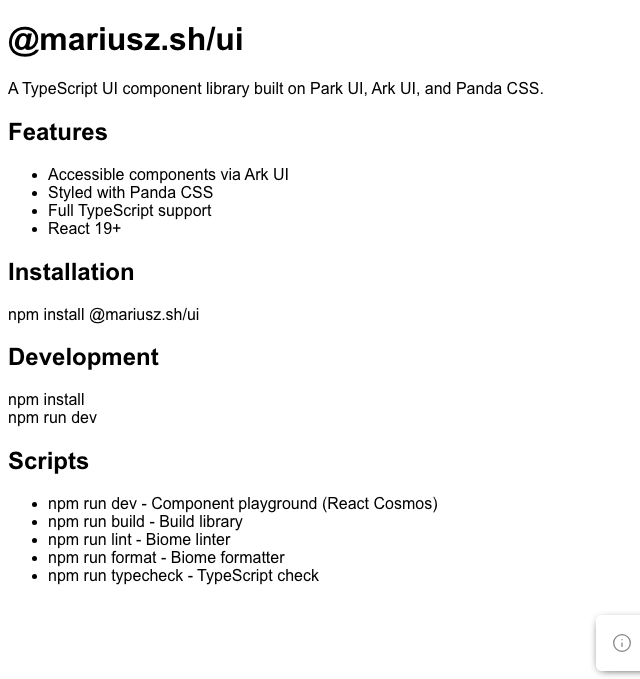
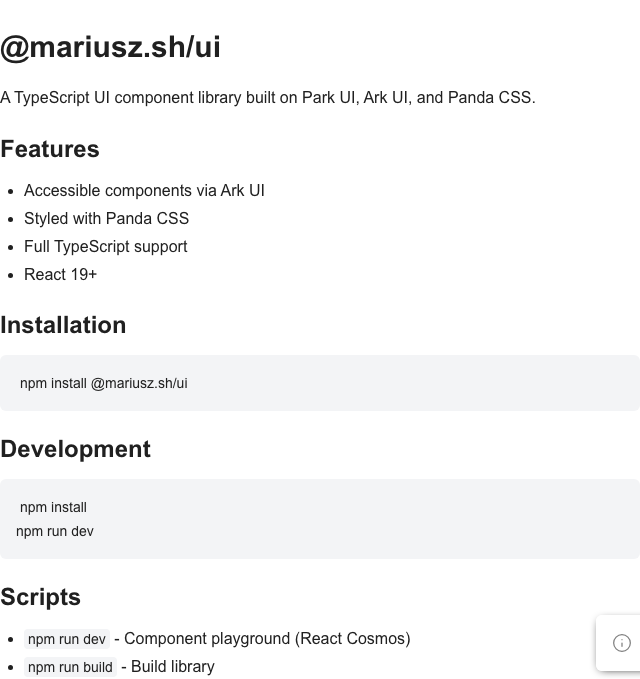
WIP

Changed region(s): [[0.0, 0.1237, 0.8438, 0.8969], [0.0312, 0.9278, 0.6562, 0.9897], [0.0, 0.0309, 0.375, 0.0928]]

diff --git a/src/cosmos.decorator.tsx b/src/cosmos.decorator.tsx
@@ -1,25 +1,92 @@
 import { MDXProvider } from "@mdx-js/react";
-import type { ReactNode } from "react";
+import type { ComponentProps, ReactNode } from "react";
+import { styled } from "styled-system/jsx";
 
-// import "./index.css";
+import "./index.css";
 
-// const _components = {
-// 	a: styled("a"),
-// 	blockquote: styled("blockquote"),
-// 	code: styled("code"),
-// 	h1: styled("h1"),
-// 	h2: styled("h2"),
-// 	h3: styled("h3"),
-// 	h4: styled("h4"),
-// 	h5: styled("h5"),
-// 	h6: styled("h6"),
-// 	li: styled("li"),
-// 	ol: styled("ol"),
-// 	p: styled("p"),
-// 	pre: styled("pre"),
-// 	ul: styled("ul"),
-// };
+// TODO
+
+const H1 = styled("h1");
+const H2 = styled("h2");
+const H3 = styled("h3");
+const H4 = styled("h4");
+const H5 = styled("h5");
+const H6 = styled("h6");
+const P = styled("p");
+const Ul = styled("ul");
+const Ol = styled("ol");
+const Li = styled("li");
+const A = styled("a");
+const Blockquote = styled("blockquote");
+const Code = styled("code");
+const Pre = styled("pre");
+
+const components = {
+	h1: (props: ComponentProps<typeof H1>) => (
+		<H1 fontSize="3xl" fontWeight="bold" mb="4" mt="6" {...props} />
+	),
+	h2: (props: ComponentProps<typeof H2>) => (
+		<H2 fontSize="2xl" fontWeight="bold" mb="3" mt="5" {...props} />
+	),
+	h3: (props: ComponentProps<typeof H3>) => (
+		<H3 fontSize="xl" fontWeight="semibold" mb="2" mt="4" {...props} />
+	),
+	h4: (props: ComponentProps<typeof H4>) => (
+		<H4 fontSize="lg" fontWeight="semibold" mb="2" mt="3" {...props} />
+	),
+	h5: (props: ComponentProps<typeof H5>) => (
+		<H5 fontSize="md" fontWeight="semibold" mb="1" mt="2" {...props} />
+	),
+	h6: (props: ComponentProps<typeof H6>) => (
+		<H6 fontSize="sm" fontWeight="semibold" mb="1" mt="2" {...props} />
+	),
+	p: (props: ComponentProps<typeof P>) => (
+		<P mb="4" lineHeight="relaxed" {...props} />
+	),
+	ul: (props: ComponentProps<typeof Ul>) => (
+		<Ul listStyleType="disc" pl="6" mb="4" {...props} />
+	),
+	ol: (props: ComponentProps<typeof Ol>) => (
+		<Ol listStyleType="decimal" pl="6" mb="4" {...props} />
+	),
+	li: (props: ComponentProps<typeof Li>) => <Li mb="1" {...props} />,
+	a: (props: ComponentProps<typeof A>) => (
+		<A color="indigo.500" textDecoration="underline" {...props} />
+	),
+	blockquote: (props: ComponentProps<typeof Blockquote>) => (
+		<Blockquote
+			borderLeftWidth="4px"
+			borderColor="gray.300"
+			pl="4"
+			fontStyle="italic"
+			my="4"
+			{...props}
+		/>
+	),
+	code: (props: ComponentProps<typeof Code>) => (
+		<Code
+			fontFamily="mono"
+			bg="gray.100"
+			px="1"
+			py="0.5"
+			borderRadius="sm"
+			fontSize="sm"
+			{...props}
+		/>
+	),
+	pre: (props: ComponentProps<typeof Pre>) => (
+		<Pre
+			fontFamily="mono"
+			bg="gray.100"
+			p="4"
+			borderRadius="md"
+			overflowX="auto"
+			mb="4"
+			{...props}
+		/>
+	),
+};
 
 export default function Decorator({ children }: { children: ReactNode }) {
-	return <MDXProvider>{children}</MDXProvider>;
+	return <MDXProvider components={components}>{children}</MDXProvider>;
 }

diff --git a/src/index.css b/src/index.css
@@ -1,14 +1,1 @@
-/**
- * Declare layers on separate lines to prevent Panda CSS (or PostCSS?) from
- * concatenating them into a single statement:
- *
- * `@layer reset, base;@layer reset {`
- *
- * which causes styles to not render with Vite dev + React Cosmos + MDX decorator.
- */
-
-@layer reset;
-@layer base;
-@layer tokens;
-@layer recipes;
-@layer utilities;
+@layer reset, base, tokens, recipes, utilities;

diff --git a/vite.cosmos.config.ts b/vite.cosmos.config.ts
@@ -5,7 +5,7 @@ import { defineConfig } from "vite";
 
 // Vite config specifically for Cosmos (no library mode)
 export default defineConfig({
-	plugins: [react(), mdx()],
+	plugins: [react(), mdx({ providerImportSource: "@mdx-js/react" })],
 	resolve: {
 		alias: {
 			"@": resolve(__dirname, "./src"),